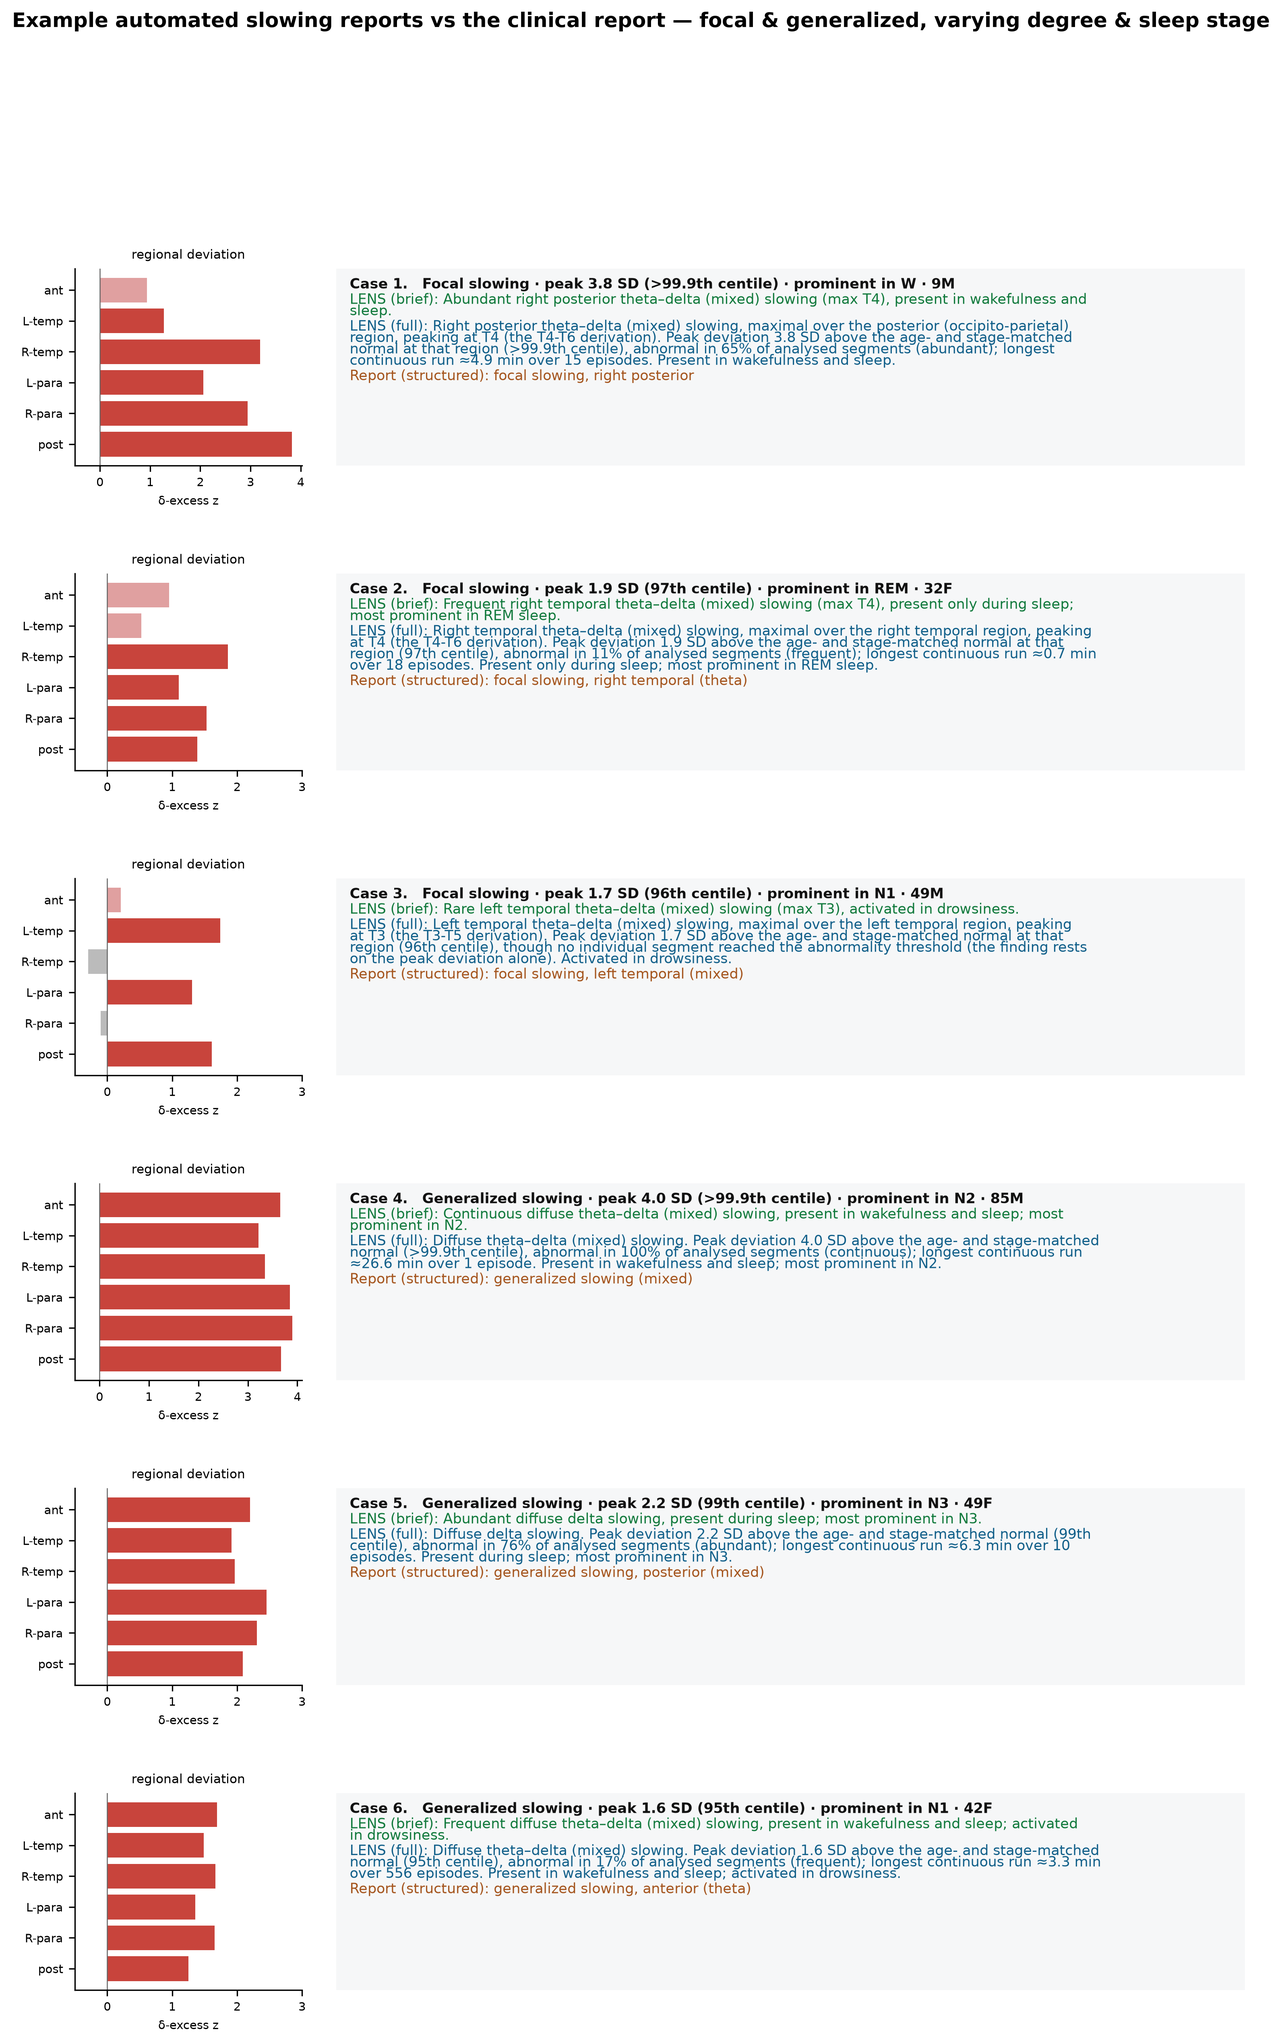
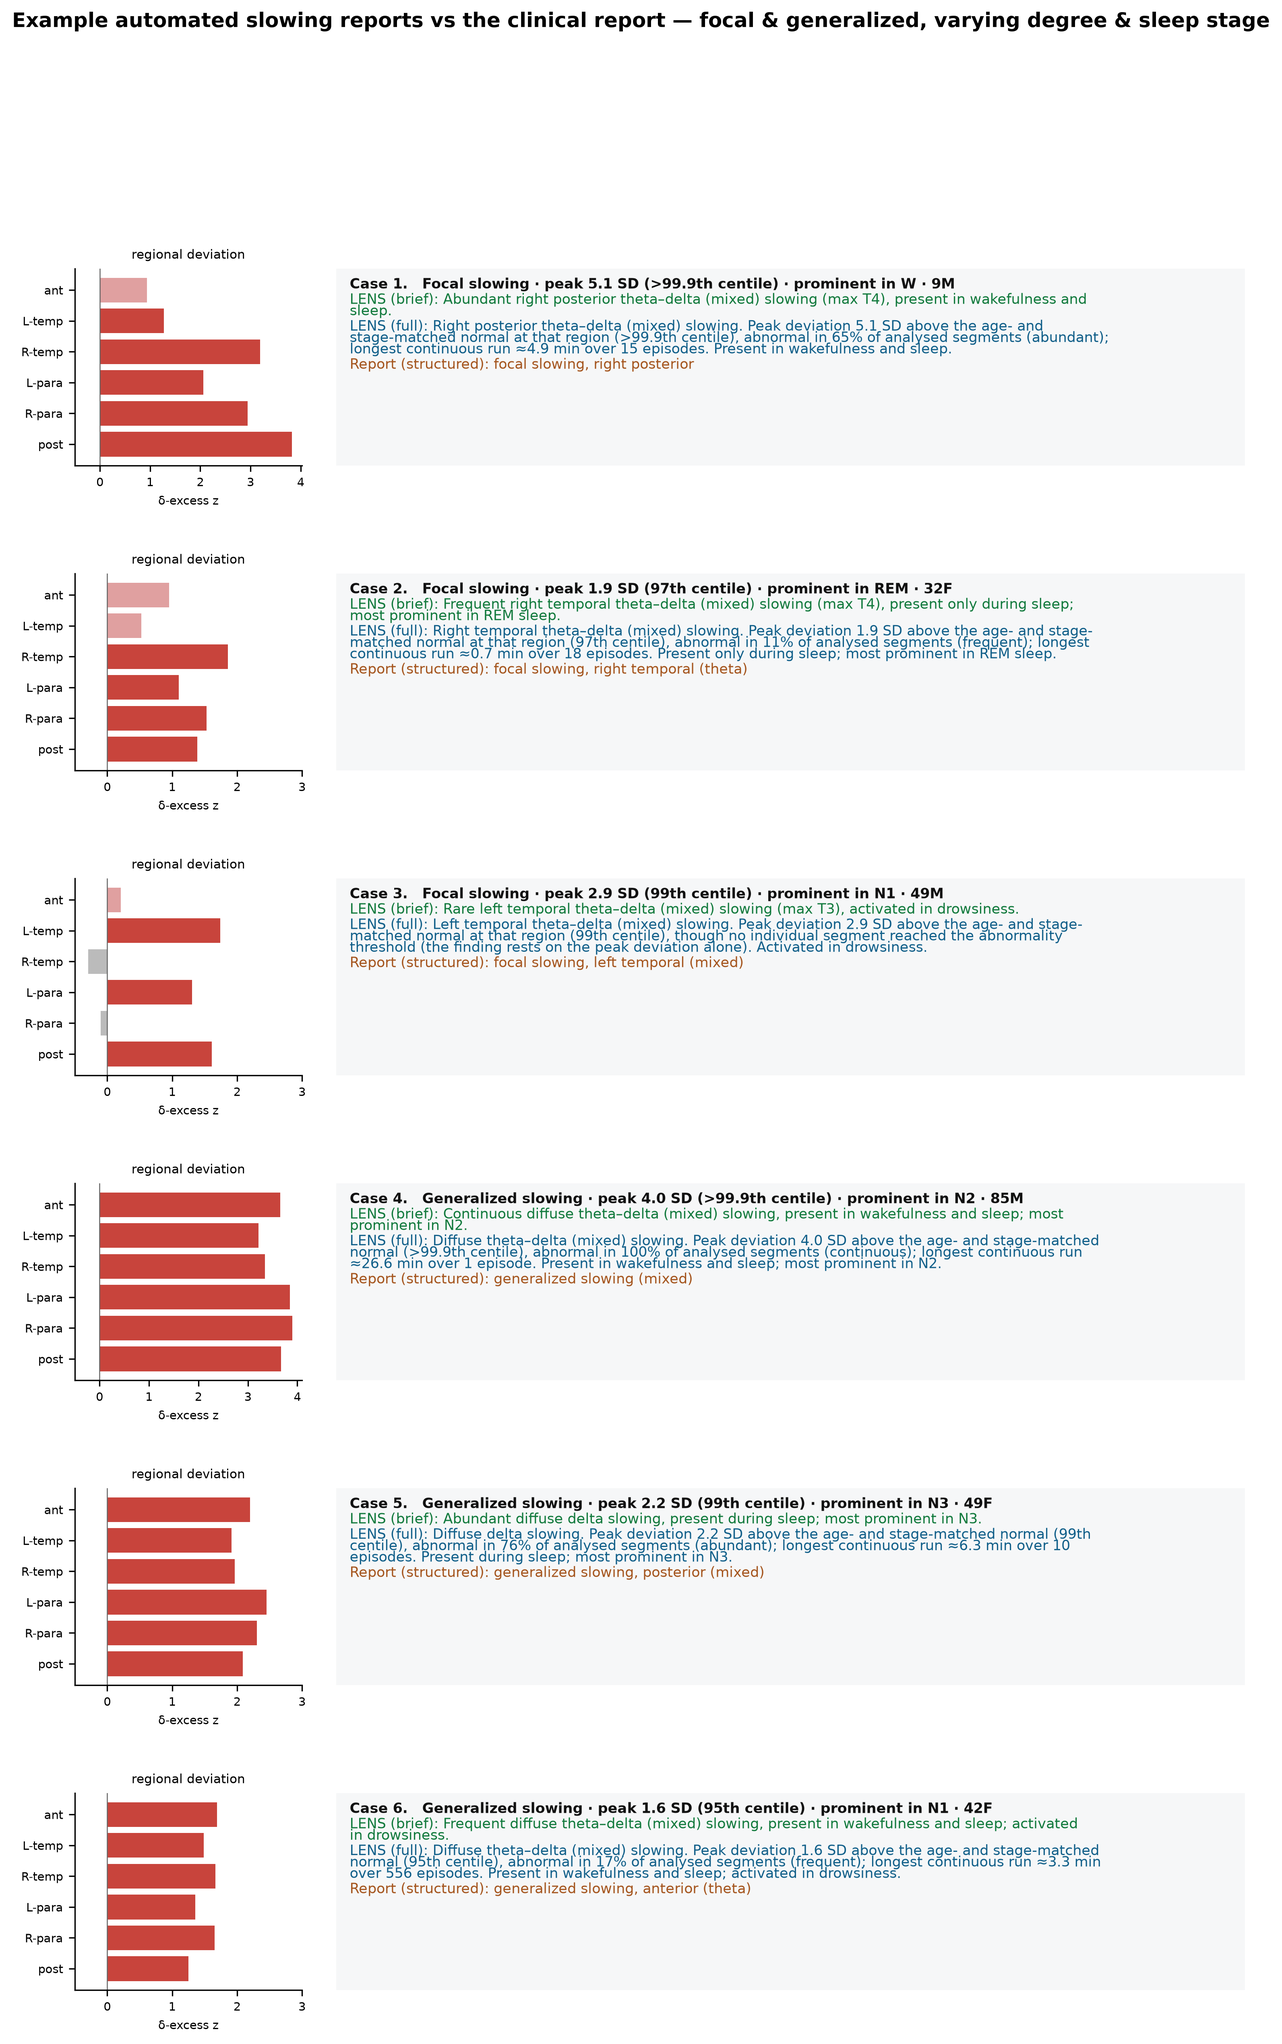
Pin the Figure 4/5 examples; make the SAI-100 path resolvable; refresh S3
Three fixes so the repo and the published data actually reproduce the paper.

1. Figures 4/5 showed patients chosen under the SUPERSEDED 7-region descriptors.
   bab4ddb regenerated them "from S3", and the S3 copy of
   description_recording.parquet predates the region expansion (7 -> 11 regions,
   210 -> 330 grid cells; the L/R anterior/posterior split SS2 describes). Because
   the search ranks candidates on peak_region/peak_region_z, re-running with
   current descriptors selected three DIFFERENT focal patients.

   The reviewers commented on Figure 4 panel by panel, and the cases are
   illustrations rather than results, so the identities are now PINNED
   (PINNED_EXAMPLES) and only the cards are recomputed. Same six recordings as
   the reviewed figure, now built from the 11-region descriptors: the focal peaks
   sharpen (3.8 -> 5.1, 1.7 -> 2.9 SD) because the finer split localises better,
   which is the expansion working as intended. The generalized three are
   unchanged. If a pinned recording ever leaves the descriptor table the script
   now says so loudly instead of silently swapping in different patients.

2. SANDOR_DIR defaulted to one developer's Box CloudStorage mount, so Figure 3
   died on every other machine with a FileNotFoundError naming a stranger's home
   directory -- it could not be reproduced at all without knowing to set the
   variable. All four consumers now resolve through _resolve_sandor_dir(), which
[…]

Changed region(s): [[0.2798, 0.4359, 0.8395, 0.4981], [0.2798, 0.3113, 0.8395, 0.3425], [0.2798, 0.1557, 0.8395, 0.1868]]

diff --git a/scripts/62_example_reports_panel.py b/scripts/62_example_reports_panel.py
@@ -23,6 +23,26 @@ MANIFEST = "data/manifest/report_manifest_v6.parquet"
 # its report ("burst suppression with bursts of irregular theta slowing") is not a clean generalized-slowing
 # case, so it makes a misleading LENS-vs-report comparison.
 EXCLUDE_IDS = ("S0001121298232",)
+
+# The six recordings shown in Figures 4 and 5, PINNED.
+#
+# Why pin rather than re-search: the search ranks candidates on `peak_region`/`peak_region_z`, and the
+# normative grid gained four regions during the revision (7 -> 11: L/R anterior and L/R posterior, the split
+# SS2 describes, 210 -> 330 cells). That legitimately re-ranks the focal pool, so re-running picked three
+# DIFFERENT focal patients than the figures the reviewers read and commented on panel-by-panel.
+#
+# Changing which patients appear mid-revision would orphan those comments for no scientific gain -- the cases
+# are illustrations, not results. So the identities are fixed here and only their CARDS are recomputed, which
+# is what actually needed updating: the committed cards were built from the superseded 7-region descriptors.
+# Order is the display order: 3 focal (marked/moderate/mild), then 3 generalized.
+PINNED_EXAMPLES = (
+    "S0001112857553_20160206081631",   # focal, marked
+    "S0001120133802_20120917122010",   # focal, moderate
+    "S0002118633403_20191203074129",   # focal, mild
+    "S0001119160767_20190930133101",   # generalized, marked
+    "S0002114400117_20220102134116",   # generalized, moderate
+    "S0002119199989_20170830132221",   # generalized, mild
+)
 # Pull ONLY the SLOWING-finding sentence(s) from the clinical report: require the core word "slow", and drop
 # sentences about medications / history / times / epileptiform activity — those are off-topic for this figure
 # and the most PHI-sensitive part. Then de-identify (dates, times, redaction stars, long-number IDs, names).
@@ -229,12 +249,25 @@ def main():
             & d.focal_side.notna() & (d.lat_signed.abs() >= LAT_MIN)]                                               # noqa: E712
     gen = d[(~d.isfoc) & d.gen & (d.slowing_gen_pathologic == True) & (d.slowing_focal != True)]                    # noqa: E712
     MARKED, MODERATE, MILD = (3.0, 12.0), (1.8, 3.0), (1.0, 1.8)
-    used_ids, used_stages, used_regions, chosen = set(), [], set(), []
-    for pool, band in [(foc, MARKED), (foc, MODERATE), (foc, MILD),
-                       (gen, MARKED), (gen, MODERATE), (gen, MILD)]:
-        r = pick(pool, used_ids, used_stages, used_regions, band)
-        if r is not None:
-            used_ids.add(r.eeg_id); used_stages.append(r.domstage); used_regions.add(r.peak_region); chosen.append(r)
+    chosen = []
+    by_id = {str(r.eeg_id): r for r in d.itertuples()}
+    missing = [e for e in PINNED_EXAMPLES if e not in by_id]
+    if not missing:
+        chosen = [by_id[e] for e in PINNED_EXAMPLES]          # reviewed figure -> identities fixed
+    else:
+        # Only reachable if the pinned recordings drop out of the descriptor table entirely. Say so loudly
+        # rather than silently swapping in different patients, which is exactly the failure this pin exists
+        # to prevent.
+        print(f"WARNING: {len(missing)} pinned example(s) absent from description_recording "
+              f"({missing}); falling back to the automatic search, so Figures 4/5 will show DIFFERENT "
+              f"patients than the reviewed version.")
+        used_ids, used_stages, used_regions = set(), [], set()
+        for pool, band in [(foc, MARKED), (foc, MODERATE), (foc, MILD),
+                           (gen, MARKED), (gen, MODERATE), (gen, MILD)]:
+            r = pick(pool, used_ids, used_stages, used_regions, band)
+            if r is not None:
+                used_ids.add(r.eeg_id); used_stages.append(r.domstage)
+                used_regions.add(r.peak_region); chosen.append(r)
     ex = pd.DataFrame(chosen).reset_index(drop=True)
 
     # --- render 6 cards (one row each) ---

diff --git a/scripts/64_focal_v2_experiment.py b/scripts/64_focal_v2_experiment.py
@@ -26,8 +26,35 @@ SM = "data/derived/segment_master"
 # SANDOR_DIR must be settable: this defaulted to one developer's Box CloudStorage mount, so the SAI-100
 # external validation could not be reproduced anywhere else. The default is the historical path purely
 # so the old machine keeps working; everyone else exports SANDOR_DIR.
+def _resolve_sandor_dir():
+    """Locate the SAI-100 source, or say exactly how to point at it.
+
+    This used to default to one developer's Box CloudStorage mount, so every other machine died with a
+    FileNotFoundError deep inside pandas naming a stranger's home directory. The data is DUA-governed and
+    cannot be committed, so a default is still needed -- but it must be a path that can plausibly exist
+    here, and when it does not it must fail with an instruction rather than a stack trace.
+    """
+    import os as _os
+    from pathlib import Path as _P
+    env = _os.environ.get("SANDOR_DIR")
+    if env:
+        return env
+    for c in (_P.home() / "Desktop/GithubRepos/Sandor_100_local",
+              _P.home() / "Sandor_100",
+              _P("data/external/Sandor_100"),
+              _P("/Users/mwestover/Library/CloudStorage/Box-Box/Brandon - DeID/0_People/ChenXiSun/"
+                 "ChenXiSun/Morgoth1/Datasets/Sandor_100")):    # historical, so the original machine works
+        if _P(c).is_dir():
+            return str(c)
+    raise SystemExit(
+        "SAI-100 source not found. It is DUA-governed and not committed, so set SANDOR_DIR to the "
+        "directory\nholding validation_study_excel_export.xlsx and Morgoth_results/, e.g.\n"
+        "  export SANDOR_DIR=~/Desktop/GithubRepos/Sandor_100_local\n"
+        "or run scripts/reproduce_story.sh, which skips this step cleanly when SANDOR_DIR is unset.")
+
+
 SB_DIR = Path(os.environ.get("SANDOR_DIR") or
-              "/Users/mwestover/Library/CloudStorage/Box-Box/Brandon - DeID/0_People/ChenXiSun/ChenXiSun/Morgoth1/Datasets/Sandor_100"); MR = SB_DIR / "Morgoth_results"
+              _resolve_sandor_dir()); MR = SB_DIR / "Morgoth_results"
 BANDS = ["log_delta", "log_theta", "log_TAR"]
 PAIRS = [("Fp1-F7", "Fp2-F8"), ("F7-T3", "F8-T4"), ("T3-T5", "T4-T6"), ("T5-O1", "T6-O2"),
          ("Fp1-F3", "Fp2-F4"), ("F3-C3", "F4-C4"), ("C3-P3", "C4-P4"), ("P3-O1", "P4-O2")]

diff --git a/scripts/sandor100_stage_extract.py b/scripts/sandor100_stage_extract.py
@@ -35,8 +35,35 @@ m31 = importlib.util.module_from_spec(_s); _s.loader.exec_module(m31)
 # SANDOR_DIR must be settable: this defaulted to one developer's Box CloudStorage mount, so the SAI-100
 # external validation could not be reproduced anywhere else. The default is the historical path purely
 # so the old machine keeps working; everyone else exports SANDOR_DIR.
+def _resolve_sandor_dir():
+    """Locate the SAI-100 source, or say exactly how to point at it.
+
+    This used to default to one developer's Box CloudStorage mount, so every other machine died with a
+    FileNotFoundError deep inside pandas naming a stranger's home directory. The data is DUA-governed and
+    cannot be committed, so a default is still needed -- but it must be a path that can plausibly exist
+    here, and when it does not it must fail with an instruction rather than a stack trace.
+    """
+    import os as _os
+    from pathlib import Path as _P
+    env = _os.environ.get("SANDOR_DIR")
+    if env:
+        return env
+    for c in (_P.home() / "Desktop/GithubRepos/Sandor_100_local",
+              _P.home() / "Sandor_100",
+              _P("data/external/Sandor_100"),
+              _P("/Users/mwestover/Library/CloudStorage/Box-Box/Brandon - DeID/0_People/ChenXiSun/"
+                 "ChenXiSun/Morgoth1/Datasets/Sandor_100")):    # historical, so the original machine works
+        if _P(c).is_dir():
+            return str(c)
+    raise SystemExit(
+        "SAI-100 source not found. It is DUA-governed and not committed, so set SANDOR_DIR to the "
+        "directory\nholding validation_study_excel_export.xlsx and Morgoth_results/, e.g.\n"
+        "  export SANDOR_DIR=~/Desktop/GithubRepos/Sandor_100_local\n"
+        "or run scripts/reproduce_story.sh, which skips this step cleanly when SANDOR_DIR is unset.")
+
+
 SB_DIR = Path(os.environ.get("SANDOR_DIR") or
-              "/Users/mwestover/Library/CloudStorage/Box-Box/Brandon - DeID/0_People/ChenXiSun/ChenXiSun/Morgoth1/Datasets/Sandor_100")
+              _resolve_sandor_dir())
 EDF = SB_DIR / "EDF"
 SM = Path("data/derived/segment_master")
 WORK = Path("/private/tmp/claude-501/-Users-mwestover-GithubRepos-morgoth-slowing-growth-curves/"

diff --git a/scripts/sandor100_external_validation.py b/scripts/sandor100_external_validation.py
@@ -35,8 +35,35 @@ m53.SEG_CAP = 10**9                                              # use ALL segme
 # SANDOR_DIR must be settable: this defaulted to one developer's Box CloudStorage mount, so the SAI-100
 # external validation could not be reproduced anywhere else. The default is the historical path purely
 # so the old machine keeps working; everyone else exports SANDOR_DIR.
+def _resolve_sandor_dir():
+    """Locate the SAI-100 source, or say exactly how to point at it.
+
+    This used to default to one developer's Box CloudStorage mount, so every other machine died with a
+    FileNotFoundError deep inside pandas naming a stranger's home directory. The data is DUA-governed and
+    cannot be committed, so a default is still needed -- but it must be a path that can plausibly exist
+    here, and when it does not it must fail with an instruction rather than a stack trace.
+    """
+    import os as _os
+    from pathlib import Path as _P
+    env = _os.environ.get("SANDOR_DIR")
+    if env:
+        return env
+    for c in (_P.home() / "Desktop/GithubRepos/Sandor_100_local",
+              _P.home() / "Sandor_100",
+              _P("data/external/Sandor_100"),
+              _P("/Users/mwestover/Library/CloudStorage/Box-Box/Brandon - DeID/0_People/ChenXiSun/"
+                 "ChenXiSun/Morgoth1/Datasets/Sandor_100")):    # historical, so the original machine works
+        if _P(c).is_dir():
+            return str(c)
+    raise SystemExit(
+        "SAI-100 source not found. It is DUA-governed and not committed, so set SANDOR_DIR to the "
+        "directory\nholding validation_study_excel_export.xlsx and Morgoth_results/, e.g.\n"
+        "  export SANDOR_DIR=~/Desktop/GithubRepos/Sandor_100_local\n"
+        "or run scripts/reproduce_story.sh, which skips this step cleanly when SANDOR_DIR is unset.")
+
+
 SB_DIR = Path(os.environ.get("SANDOR_DIR") or
-              "/Users/mwestover/Library/CloudStorage/Box-Box/Brandon - DeID/0_People/ChenXiSun/ChenXiSun/Morgoth1/Datasets/Sandor_100")
+              _resolve_sandor_dir())
 MR = SB_DIR / "Morgoth_results"
 SM = Path("data/derived/segment_master")
 OUT = Path("results/sandor"); FIG = Path("figures/story")

diff --git a/scripts/66_focal_combined.py b/scripts/66_focal_combined.py
@@ -25,8 +25,35 @@ SM = "data/derived/segment_master"
 # SANDOR_DIR must be settable: this defaulted to one developer's Box CloudStorage mount, so the SAI-100
 # external validation could not be reproduced anywhere else. The default is the historical path purely
 # so the old machine keeps working; everyone else exports SANDOR_DIR.
+def _resolve_sandor_dir():
+    """Locate the SAI-100 source, or say exactly how to point at it.
+
+    This used to default to one developer's Box CloudStorage mount, so every other machine died with a
+    FileNotFoundError deep inside pandas naming a stranger's home directory. The data is DUA-governed and
+    cannot be committed, so a default is still needed -- but it must be a path that can plausibly exist
+    here, and when it does not it must fail with an instruction rather than a stack trace.
+    """
+    import os as _os
+    from pathlib import Path as _P
+    env = _os.environ.get("SANDOR_DIR")
+    if env:
+        return env
+    for c in (_P.home() / "Desktop/GithubRepos/Sandor_100_local",
+              _P.home() / "Sandor_100",
+              _P("data/external/Sandor_100"),
+              _P("/Users/mwestover/Library/CloudStorage/Box-Box/Brandon - DeID/0_People/ChenXiSun/"
+                 "ChenXiSun/Morgoth1/Datasets/Sandor_100")):    # historical, so the original machine works
+        if _P(c).is_dir():
+            return str(c)
+    raise SystemExit(
+        "SAI-100 source not found. It is DUA-governed and not committed, so set SANDOR_DIR to the "
+        "directory\nholding validation_study_excel_export.xlsx and Morgoth_results/, e.g.\n"
+        "  export SANDOR_DIR=~/Desktop/GithubRepos/Sandor_100_local\n"
+        "or run scripts/reproduce_story.sh, which skips this step cleanly when SANDOR_DIR is unset.")
+
+
 SB_DIR = Path(os.environ.get("SANDOR_DIR") or
-              "/Users/mwestover/Library/CloudStorage/Box-Box/Brandon - DeID/0_People/ChenXiSun/ChenXiSun/Morgoth1/Datasets/Sandor_100"); MR = SB_DIR / "Morgoth_results"
+              _resolve_sandor_dir()); MR = SB_DIR / "Morgoth_results"
 FOC_R = [f"{c}_{s}" for c in m55.FOC0 for s in ("mean", "p90", "max", "prev")] + ["age"]
 
 

diff --git a/results/story/s4_examples.md b/results/story/s4_examples.md
@@ -2,19 +2,19 @@
 
 LENS's BRIEF finding line and FULL report paragraph (governed by docs/claims_table.md — magnitude in SD/centile, no severity adjective) beside the clinical report's STRUCTURED descriptors (raw report text withheld as PHI). Regional strip = per-region delta-excess deviation z (focal = one region high; diffuse = broadly elevated).
 
-**Case 1 — Focal slowing · peak 3.8 SD (>99.9th centile) · prominent in W · 9M**  
+**Case 1 — Focal slowing · peak 5.1 SD (>99.9th centile) · prominent in W · 9M**  
 - LENS (brief): Abundant right posterior theta–delta (mixed) slowing (max T4), present in wakefulness and sleep.  
-- LENS (full): Right posterior theta–delta (mixed) slowing, maximal over the posterior (occipito-parietal) region, peaking at T4 (the T4-T6 derivation). Peak deviation 3.8 SD above the age- and stage-matched normal at that region (>99.9th centile), abnormal in 65% of analysed segments (abundant); longest continuous run ≈4.9 min over 15 episodes. Present in wakefulness and sleep.  
+- LENS (full): Right posterior theta–delta (mixed) slowing. Peak deviation 5.1 SD above the age- and stage-matched normal at that region (>99.9th centile), abnormal in 65% of analysed segments (abundant); longest continuous run ≈4.9 min over 15 episodes. Present in wakefulness and sleep.  
 - Report (structured): focal slowing, right posterior
 
 **Case 2 — Focal slowing · peak 1.9 SD (97th centile) · prominent in REM · 32F**  
 - LENS (brief): Frequent right temporal theta–delta (mixed) slowing (max T4), present only during sleep; most prominent in REM sleep.  
-- LENS (full): Right temporal theta–delta (mixed) slowing, maximal over the right temporal region, peaking at T4 (the T4-T6 derivation). Peak deviation 1.9 SD above the age- and stage-matched normal at that region (97th centile), abnormal in 11% of analysed segments (frequent); longest continuous run ≈0.7 min over 18 episodes. Present only during sleep; most prominent in REM sleep.  
+- LENS (full): Right temporal theta–delta (mixed) slowing. Peak deviation 1.9 SD above the age- and stage-matched normal at that region (97th centile), abnormal in 11% of analysed segments (frequent); longest continuous run ≈0.7 min over 18 episodes. Present only during sleep; most prominent in REM sleep.  
 - Report (structured): focal slowing, right temporal (theta)
 
-**Case 3 — Focal slowing · peak 1.7 SD (96th centile) · prominent in N1 · 49M**  
+**Case 3 — Focal slowing · peak 2.9 SD (99th centile) · prominent in N1 · 49M**  
 - LENS (brief): Rare left temporal theta–delta (mixed) slowing (max T3), activated in drowsiness.  
-- LENS (full): Left temporal theta–delta (mixed) slowing, maximal over the left temporal region, peaking at T3 (the T3-T5 derivation). Peak deviation 1.7 SD above the age- and stage-matched normal at that region (96th centile), though no individual segment reached the abnormality threshold (the finding rests on the peak deviation alone). Activated in drowsiness.  
+- LENS (full): Left temporal theta–delta (mixed) slowing. Peak deviation 2.9 SD above the age- and stage-matched normal at that region (99th centile), though no individual segment reached the abnormality threshold (the finding rests on the peak deviation alone). Activated in drowsiness.  
 - Report (structured): focal slowing, left temporal (mixed)
 
 **Case 4 — Generalized slowing · peak 4.0 SD (>99.9th centile) · prominent in N2 · 85M**  
